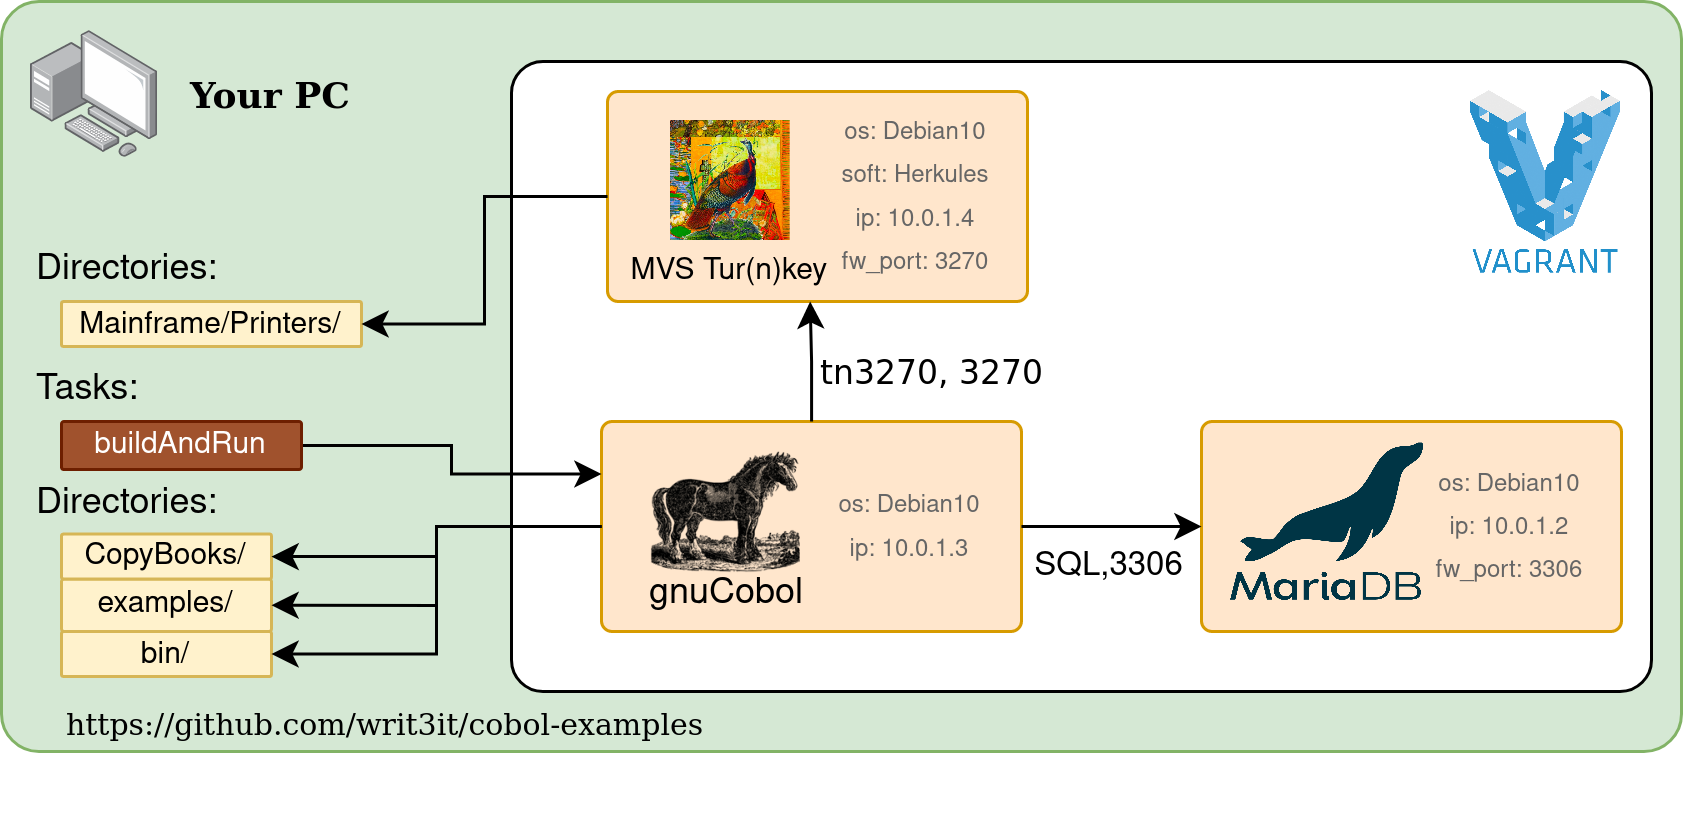
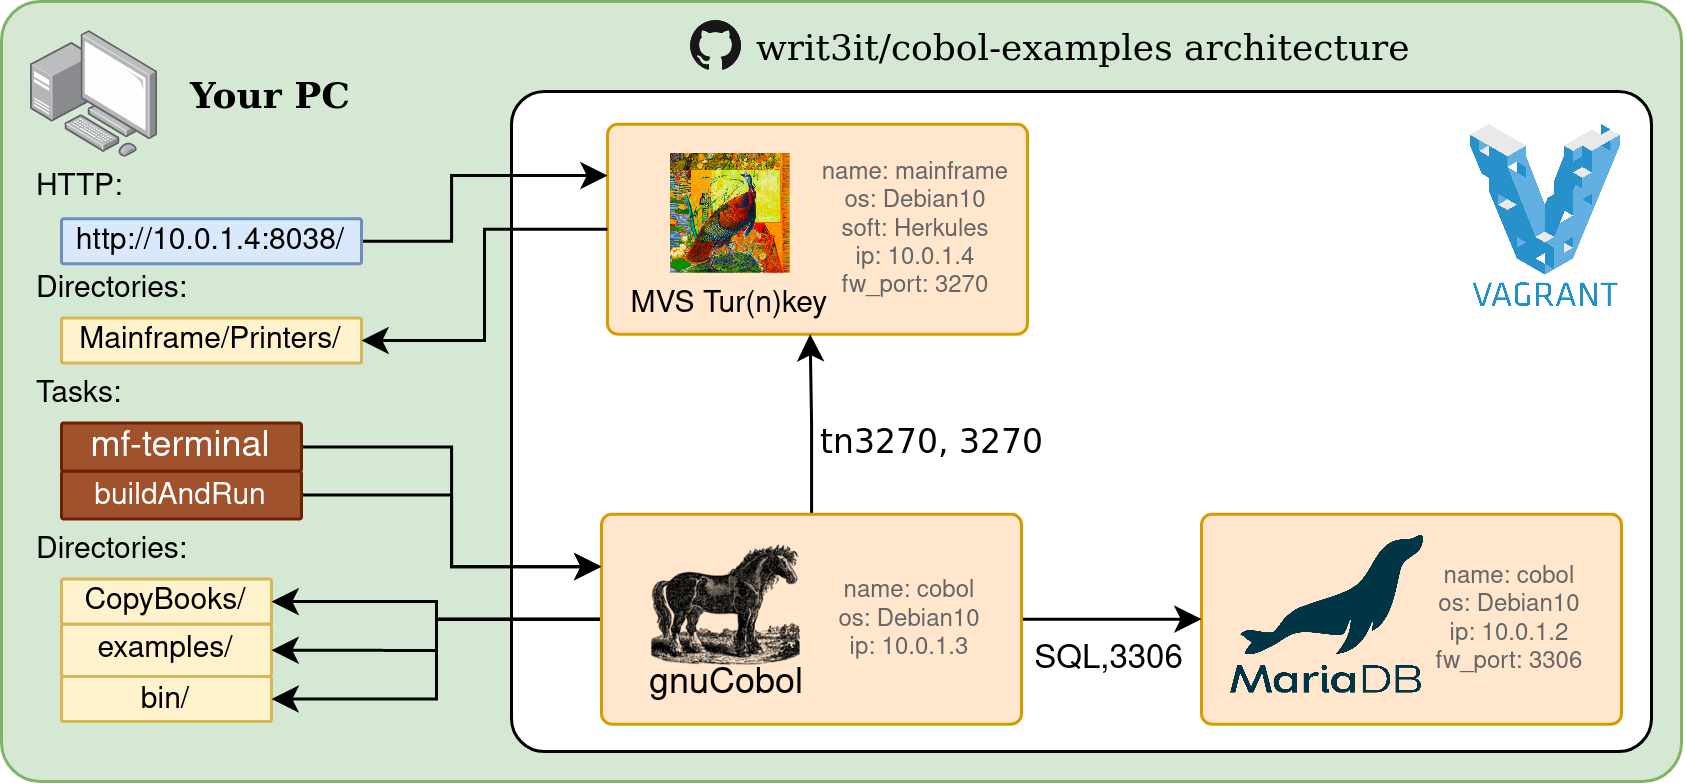
readme imprvm

diff --git a/README.md b/README.md
@@ -1,6 +1,10 @@
 # cobol-examples
 The set of cobol examples
 
+## Requirements
+
+PC with linux OS and Vagrant installed. If you are using Windows, translate bin/buildAndRun.sh and bin/mf-terminal.sh (or run over WSL?).
+
 ## Getting Started
 
 1. Install Vagrant ([documentation](https://www.vagrantup.com/docs/installation)).
@@ -12,10 +16,38 @@ The set of cobol examples
 5. Type `Ctrl + Shift + B`. Enjoy!
 6. After work, do `$ vagrant halt` to stop virtual machines.
 
+## Table of Contents
+
+1. [examples/gnucobol](examples/gnucobol/README.md) - gnucobol dedicated examples
+    - [basic/01_hello_world.cbl](examples/gnucobol/basic/01_hello_world.cbl) - Greeting the World!
+2. [examples/mainframe](examples/mainframe/README.md) - Hercules dedicated examples
+    - [basic/01_hello_world.cbl](examples/mainframebasic/01_hello_world.cbl) - Greeting the World!
+3. Mainframe/Printers - Hercules printers output files
+    - prt00e.txt - A device
+
 ## Environment architecture
 
 ![Environment architecture diagram](docs/vagrant_arch.png)
 
+## Building (Ctrl+Shift+B)
+
+When you type `Ctrl + Shift + B`, vscode will execute build task that runs buildAndRun.sh. That magic script looking for JCL corresponding to your CBL file. If the JCL is found then your program will be transfer to the mainframe and submit using JCL. If not, your program will be compile with gnuCobol. Each CBL file is precompiled with esqlOC.
+
+## ATTENTION
+
+This repository is under development. Currently building a program using the mainframe does not support copybooks. The connection to mariadb has not been tested. VMs builded with Vagrantfile are not secured. Do not use them for sensitive data or production purposes.
+
+## Important questions and answers
+
+### What is the mainframe?
+
+The mainframe is a large computer designed to process large amounts of business data and I/O operations. [Detailed answer.](https://www.youtube.com/watch?v=eGlC3WXL8FQ)
+
+### Why mainframe variant of buildAndRun is so weird?
+
+The actual compilation and running of the program are run in the job queue processed by the mainframe. This makes the process asynchronous to VSCode. Also for this reason, the program output is available on the output device (usually the printer) and not on the terminal. [Compilation using the old mainframe. Hercules works similarly.](https://www.youtube.com/watch?v=uFQ3sajIdaM)
+
 ## Usefull docs
 
 1. [Picture symbols](docs/picture_symbols.md)
+2. [Awesome COBOL list!](https://github.com/writ3it/awesome-cobol)

diff --git a/examples/mainframe/README.md b/examples/mainframe/README.md
@@ -1,0 +1,1 @@
+# Mainframe examples

diff --git a/examples/gnucobol/README.md b/examples/gnucobol/README.md
@@ -1,0 +1,1 @@
+# gnuCobol examples
